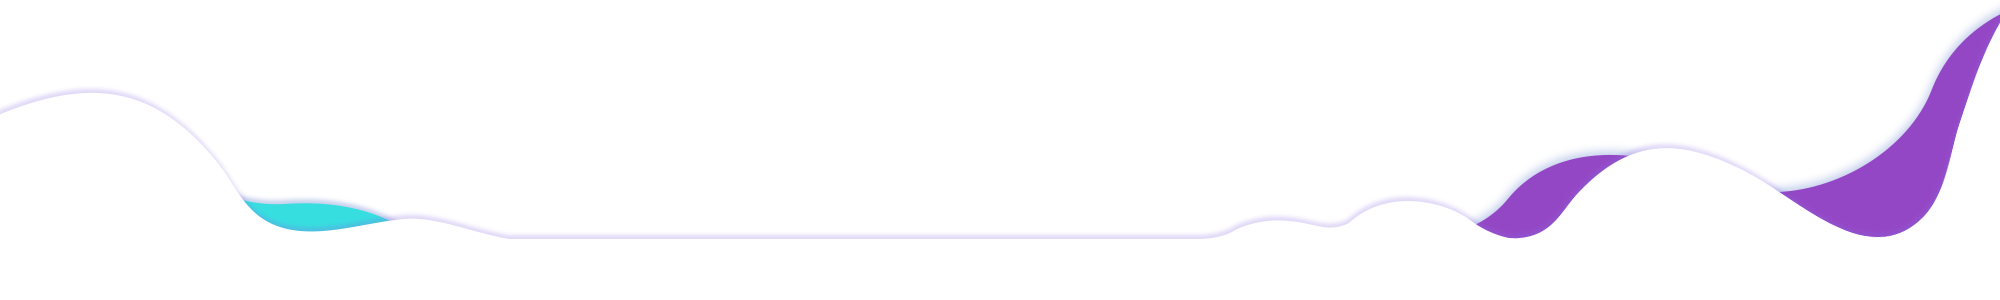
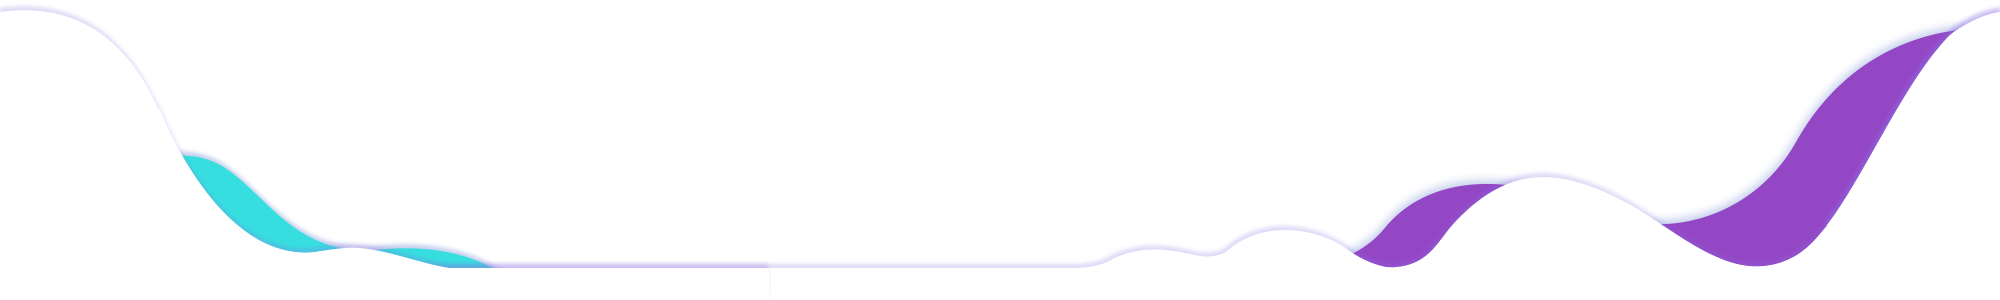
ddd

diff --git a/assets/css/main.css b/assets/css/main.css
@@ -260,7 +260,7 @@ body { color: #111; font-size: 1.4rem; font-family: "notokr", "Noto Sans KR", "A
 
 .main-visual { position: relative; height: 104rem; }
 
-.main-visual:after { z-index: 1; position: absolute; bottom: 0; left: 0; display: block; width: 100%; height: 30rem; background: url("/joytown/assets/images/main/bg-wave-white.png") bottom center/auto repeat-x; content: ""; }
+.main-visual:after { z-index: 1; position: absolute; bottom: 0; left: -11rem; display: block; width: calc(100% + 35rem); height: 30rem; background: url("/joytown/assets/images/main/bg-wave-white.png") center bottom/auto repeat-x; content: ""; }
 
 .main-visual .section-inner { padding-top: 22rem; }
 
@@ -374,9 +374,9 @@ body { color: #111; font-size: 1.4rem; font-family: "notokr", "Noto Sans KR", "A
 
 .main-visual .main-icon.icon-avatar img { width: 100%; }
 
-.main-visual .main-icon.icon-avatar.n1 { margin-left: -68rem; bottom: 5rem; }
+.main-visual .main-icon.icon-avatar.n1 { margin-left: -67rem; bottom: 4rem; }
 
-.main-visual .main-icon.icon-avatar.n2 { margin-left: 47rem; bottom: 4rem; }
+.main-visual .main-icon.icon-avatar.n2 { margin-left: 42rem; bottom: 2rem; }
 
 .main-visual .main-icon.icon-avatar .balloon-area { z-index: 5; position: absolute; left: 120%; bottom: 100%; white-space: nowrap; }
 

diff --git a/assets/css/main/_page.scss b/assets/css/main/_page.scss
@@ -183,11 +183,11 @@ body {
 		z-index: 1;
 		position: absolute;
 		bottom: 0;
-		left: 0;
+		left: -11rem;
 		display: block;
-		width: 100%;
+		width: calc(100% + 35rem);
 		height: 30rem;
-		background: url('/joytown/assets/images/main/bg-wave-white.png') bottom center/auto repeat-x;
+		background: url('/joytown/assets/images/main/bg-wave-white.png') center bottom/auto repeat-x;
 		content: "";
 	}
 	.section-inner {
@@ -492,12 +492,12 @@ body {
 				width: 100%;
 			}
 			&.n1 {
-				margin-left: -68rem;
-				bottom: 5rem;
+				margin-left: -67rem;
+				bottom: 4rem;
 			}
 			&.n2 {
-				margin-left: 47rem;
-				bottom: 4rem;
+				margin-left: 42rem;
+				bottom: 2rem;
 			}
 			.balloon-area {
 				z-index: 5;
